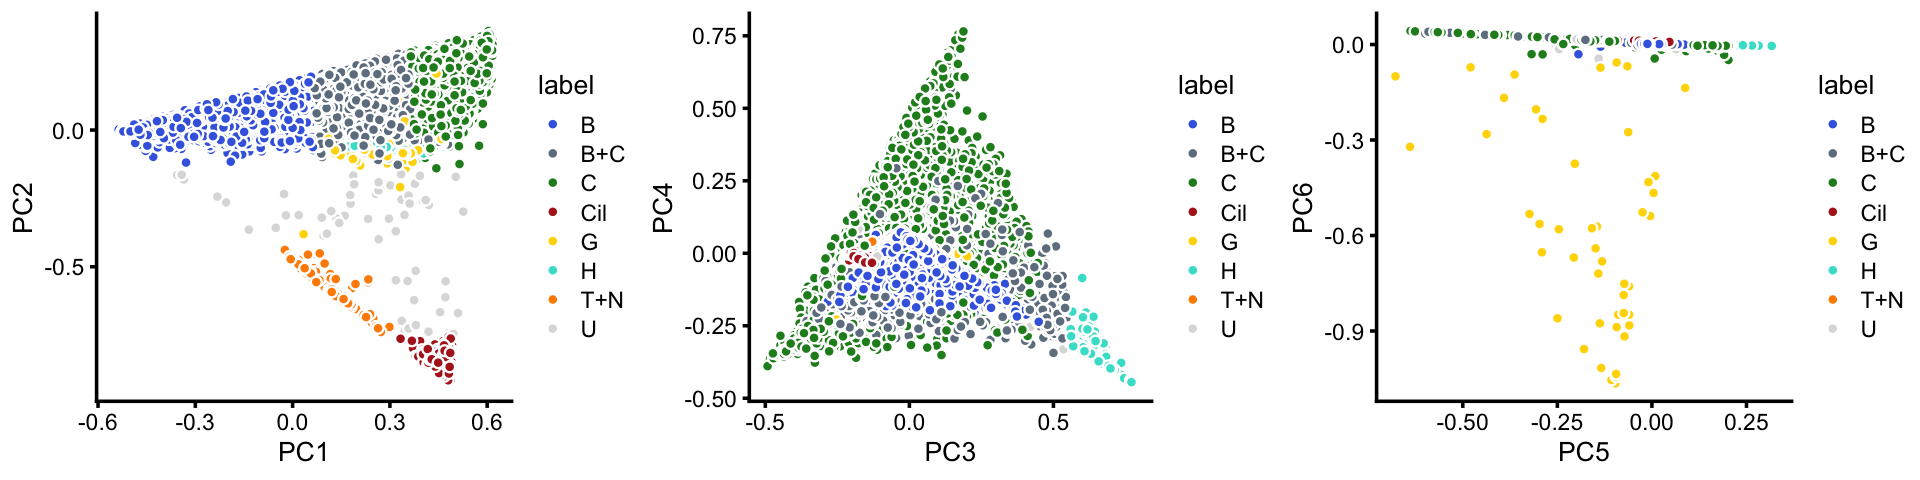
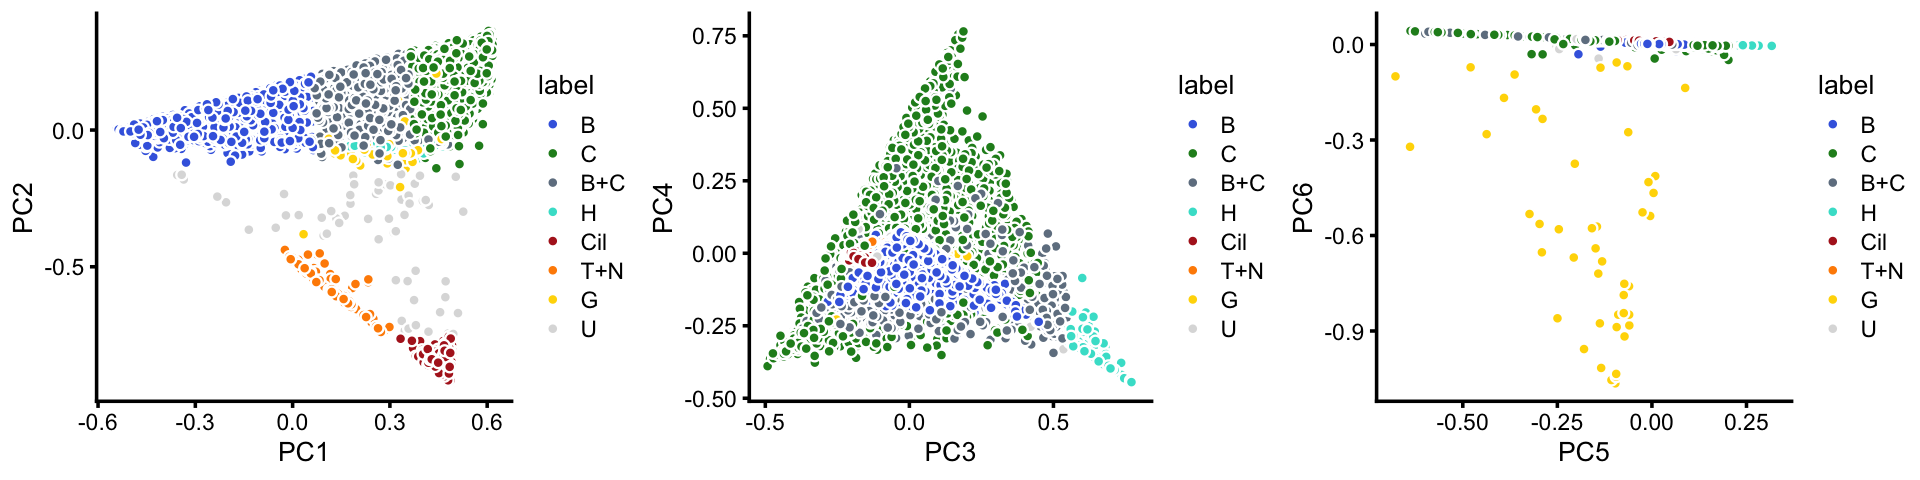
Build site.

diff --git a/docs/clusters_droplet.html b/docs/clusters_droplet.html
@@ -323,7 +323,7 @@ $(document).ready(function () {
 <div class="tab-content">
 <div id="summary" class="tab-pane fade in active">
 <p>
-<strong>Last updated:</strong> 2020-09-21
+<strong>Last updated:</strong> 2020-09-22
 </p>
 <p>
 <strong>Checks:</strong> <span class="glyphicon glyphicon-ok text-success" aria-hidden="true"></span> 7 <span class="glyphicon glyphicon-exclamation-sign text-danger" aria-hidden="true"></span> 0
@@ -414,16 +414,16 @@ This reproducible <a href="http://rmarkdown.rstudio.com">R Markdown</a> analysis
 <div class="panel panel-default">
 <div class="panel-heading">
 <p class="panel-title">
-<a data-toggle="collapse" data-parent="#workflowr-checks" href="#strongRepositoryversionstrongahrefhttpsgithubcomstephenslabsinglecelltopicstree2a5e8da3743062909f426eaf226b1ca00ac0d975targetblank2a5e8daa"> <span class="glyphicon glyphicon-ok text-success" aria-hidden="true"></span> <strong>Repository version:</strong> <a href="https://github.com/stephenslab/single-cell-topics/tree/2a5e8da3743062909f426eaf226b1ca00ac0d975" target="_blank">2a5e8da</a> </a>
+<a data-toggle="collapse" data-parent="#workflowr-checks" href="#strongRepositoryversionstrongahrefhttpsgithubcomstephenslabsinglecelltopicstreeffdc2091c2fedb1b5163ae31cce968824b0ddfd2targetblankffdc209a"> <span class="glyphicon glyphicon-ok text-success" aria-hidden="true"></span> <strong>Repository version:</strong> <a href="https://github.com/stephenslab/single-cell-topics/tree/ffdc2091c2fedb1b5163ae31cce968824b0ddfd2" target="_blank">ffdc209</a> </a>
 </p>
 </div>
[2 lines of base64/hex data omitted]
 <div class="panel-body">
 <p>
 Great! You are using Git for version control. Tracking code development and connecting the code version to the results is critical for reproducibility.
 </p>
 <p>
-The results in this page were generated with repository version <a href="https://github.com/stephenslab/single-cell-topics/tree/2a5e8da3743062909f426eaf226b1ca00ac0d975" target="_blank">2a5e8da</a>. See the <em>Past versions</em> tab to see a history of the changes made to the R Markdown and HTML files.
+The results in this page were generated with repository version <a href="https://github.com/stephenslab/single-cell-topics/tree/ffdc2091c2fedb1b5163ae31cce968824b0ddfd2" target="_blank">ffdc209</a>. See the <em>Past versions</em> tab to see a history of the changes made to the R Markdown and HTML files.
 </p>
 <p>
 Note that you need to be careful to ensure that all relevant files for the analysis have been committed to Git prior to generating the results (you can use <code>wflow_publish</code> or <code>wflow_git_commit</code>). workflowr only checks the R Markdown file, but you know if there are other scripts or data files that it depends on. Below is the status of the Git repository when the results were generated:
@@ -442,6 +442,14 @@ Ignored files:
     Ignored:    output/pbmc-purified/rds/
     Ignored:    output/pulseseq/fits-pulseseq.RData
     Ignored:    output/pulseseq/rds/
+
+Untracked files:
+    Untracked:  analysis/clustering-droplet.rds
+    Untracked:  analysis/clustering-pulseseq.rds
+
+Unstaged changes:
+    Modified:   analysis/clusters_pulseseq.Rmd
+    Modified:   analysis/temp.R
 
 </code></pre>
 <p>
@@ -480,6 +488,40 @@ Message
 </tr>
 </thead>
 <tbody>
+<tr>
+<td>
+Rmd
+</td>
+<td>
+<a href="https://github.com/stephenslab/single-cell-topics/blob/ffdc2091c2fedb1b5163ae31cce968824b0ddfd2/analysis/clusters_droplet.Rmd" target="_blank">ffdc209</a>
+</td>
+<td>
+Peter Carbonetto
+</td>
+<td>
+2020-09-22
+</td>
+<td>
+workflowr::wflow_publish(“clusters_droplet.Rmd”)
+</td>
+</tr>
+<tr>
+<td>
+html
+</td>
+<td>
+<a href="https://rawcdn.githack.com/stephenslab/single-cell-topics/2ddbe334b35fe32f2b1fc3074f708fc2ca733c8e/docs/clusters_droplet.html" target="_blank">2ddbe33</a>
+</td>
+<td>
+Peter Carbonetto
+</td>
+<td>
+2020-09-21
+</td>
+<td>
+A couple refinements to clusters_droplet analysis.
+</td>
+</tr>
 <tr>
 <td>
 Rmd
@@ -778,7 +820,8 @@ Implemented basic_pca_plot; improved labeled_pca_plot function.
 </div>
 <p>Here we perform PCA on the topic proportions to identify clusters in the droplet data.</p>
 <p>Load the packages used in the analysis below, as well as additional functions that we will use to generate some of the plots.</p>
-<pre class="r"><code>library(dplyr)
+<pre class="r"><code>library(Matrix)
+library(dplyr)
 library(fastTopics)
 library(ggplot2)
 library(cowplot)
@@ -1122,11 +1165,17 @@ y[pc2 &gt; 0.55] &lt;- &quot;H&quot;
 x[rows] &lt;- y</code></pre>
 <p>In summary, we have subdivided the droplet data into 8 subsets.</p>
 <pre class="r"><code>samples$cluster &lt;- factor(x,c(&quot;B&quot;,&quot;C&quot;,&quot;B+C&quot;,&quot;H&quot;,&quot;Cil&quot;,&quot;T+N&quot;,&quot;G&quot;,&quot;U&quot;))
-cluster_colors &lt;- c(&quot;royalblue&quot;,&quot;slategray&quot;,&quot;forestgreen&quot;,&quot;firebrick&quot;,&quot;gold&quot;,
-                    &quot;turquoise&quot;,&quot;darkorange&quot;,&quot;gainsboro&quot;)
-p11 &lt;- labeled_pca_plot(fit,1:2,x,cluster_colors,font_size = 8)
-p12 &lt;- labeled_pca_plot(fit,3:4,x,cluster_colors,font_size = 8)
-p13 &lt;- labeled_pca_plot(fit,5:6,x,cluster_colors,font_size = 8)
+cluster_colors &lt;- c(&quot;royalblue&quot;,   # B
+                    &quot;forestgreen&quot;, # C
+                    &quot;slategray&quot;,   # B+C
+                    &quot;turquoise&quot;,   # H
+                    &quot;firebrick&quot;,   # Cil
+                    &quot;darkorange&quot;,  # T+N
+                    &quot;gold&quot;,        # G
+                    &quot;gainsboro&quot;)   # U
+p11 &lt;- labeled_pca_plot(fit,1:2,samples$cluster,cluster_colors,font_size = 8)
+p12 &lt;- labeled_pca_plot(fit,3:4,samples$cluster,cluster_colors,font_size = 8)
+p13 &lt;- labeled_pca_plot(fit,5:6,samples$cluster,cluster_colors,font_size = 8)
 plot_grid(p11,p12,p13,nrow = 1,ncol = 3)</code></pre>
 <p><img src="figure/clusters_droplet.Rmd/clustering-8-1.png" width="960" style="display: block; margin: auto;" /></p>
 <p>
@@ -1290,6 +1339,17 @@ Date
 <tbody>
 <tr>
 <td>
+<a href="https://github.com/stephenslab/single-cell-topics/blob/2ddbe334b35fe32f2b1fc3074f708fc2ca733c8e/docs/figure/clusters_droplet.Rmd/pca-plot-1.png" target="_blank">2ddbe33</a>
+</td>
+<td>
+Peter Carbonetto
+</td>
+<td>
+2020-09-21
+</td>
+</tr>
+<tr>
+<td>
 <a href="https://github.com/stephenslab/single-cell-topics/blob/0a8b5712281df02f14f686e1b9556794094d97f7/docs/figure/clusters_droplet.Rmd/pca-plot-1.png" target="_blank">0a8b571</a>
 </td>
 <td>
@@ -1332,6 +1392,7 @@ Peter Carbonetto
 # 
 # other attached packages:
 # [1] cowplot_1.0.0      ggplot2_3.3.0      fastTopics_0.3-175 dplyr_0.8.3       
+# [5] Matrix_1.2-18     
 # 
 # loaded via a namespace (and not attached):
 #  [1] ggrepel_0.9.0        Rcpp_1.0.5           lattice_0.20-38     
@@ -1342,21 +1403,21 @@ Peter Carbonetto
 # [16] pillar_1.4.3         rlang_0.4.5          progress_1.2.2      
 # [19] lazyeval_0.2.2       data.table_1.12.8    irlba_2.3.3         
 # [22] SparseM_1.78         hexbin_1.28.0        whisker_0.4         
-# [25] Matrix_1.2-18        rmarkdown_2.3        labeling_0.3        
-# [28] Rtsne_0.15           stringr_1.4.0        htmlwidgets_1.5.1   
-# [31] munsell_0.5.0        compiler_3.6.2       httpuv_1.5.2        
-# [34] xfun_0.11            pkgconfig_2.0.3      mcmc_0.9-6          
-# [37] htmltools_0.4.0      tidyselect_0.2.5     tibble_2.1.3        
-# [40] workflowr_1.6.2.9000 quadprog_1.5-8       viridisLite_0.3.0   
-# [43] crayon_1.3.4         withr_2.1.2          later_1.0.0         
-# [46] MASS_7.3-51.4        grid_3.6.2           jsonlite_1.6        
-# [49] gtable_0.3.0         lifecycle_0.1.0      git2r_0.26.1        
-# [52] magrittr_1.5         scales_1.1.0         RcppParallel_4.4.2  
-# [55] stringi_1.4.3        farver_2.0.1         fs_1.3.1            
-# [58] promises_1.1.0       vctrs_0.2.1          tools_3.6.2         
-# [61] glue_1.3.1           purrr_0.3.3          hms_0.5.2           
-# [64] yaml_2.2.0           colorspace_1.4-1     plotly_4.9.2        
-# [67] knitr_1.26           quantreg_5.54        MCMCpack_1.4-5</code></pre>
+# [25] rmarkdown_2.3        labeling_0.3         Rtsne_0.15          
+# [28] stringr_1.4.0        htmlwidgets_1.5.1    munsell_0.5.0       
+# [31] compiler_3.6.2       httpuv_1.5.2         xfun_0.11           
+# [34] pkgconfig_2.0.3      mcmc_0.9-6           htmltools_0.4.0     
+# [37] tidyselect_0.2.5     tibble_2.1.3         workflowr_1.6.2.9000
+# [40] quadprog_1.5-8       viridisLite_0.3.0    crayon_1.3.4        
+# [43] withr_2.1.2          later_1.0.0          MASS_7.3-51.4       
+# [46] grid_3.6.2           jsonlite_1.6         gtable_0.3.0        
+# [49] lifecycle_0.1.0      git2r_0.26.1         magrittr_1.5        
+# [52] scales_1.1.0         RcppParallel_4.4.2   stringi_1.4.3       
+# [55] farver_2.0.1         fs_1.3.1             promises_1.1.0      
+# [58] vctrs_0.2.1          tools_3.6.2          glue_1.3.1          
+# [61] purrr_0.3.3          hms_0.5.2            yaml_2.2.0          
+# [64] colorspace_1.4-1     plotly_4.9.2         knitr_1.26          
+# [67] quantreg_5.54        MCMCpack_1.4-5</code></pre>
 </div>
 </div>
 
